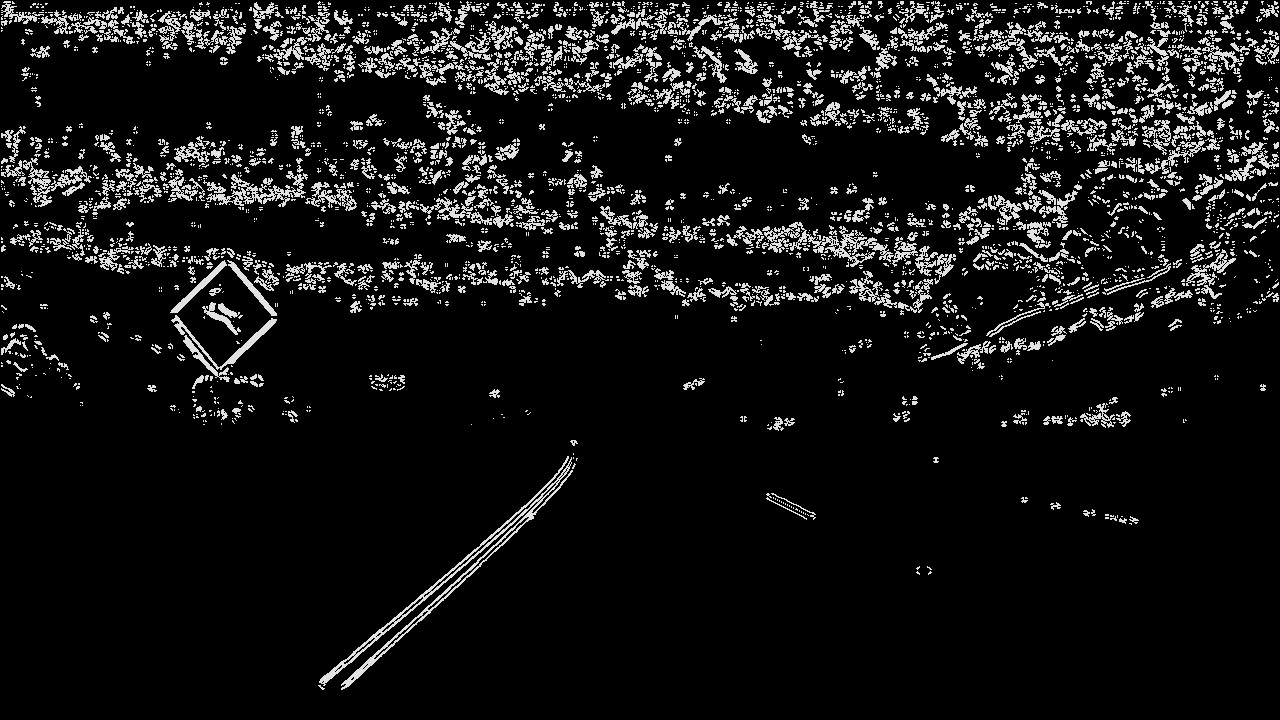
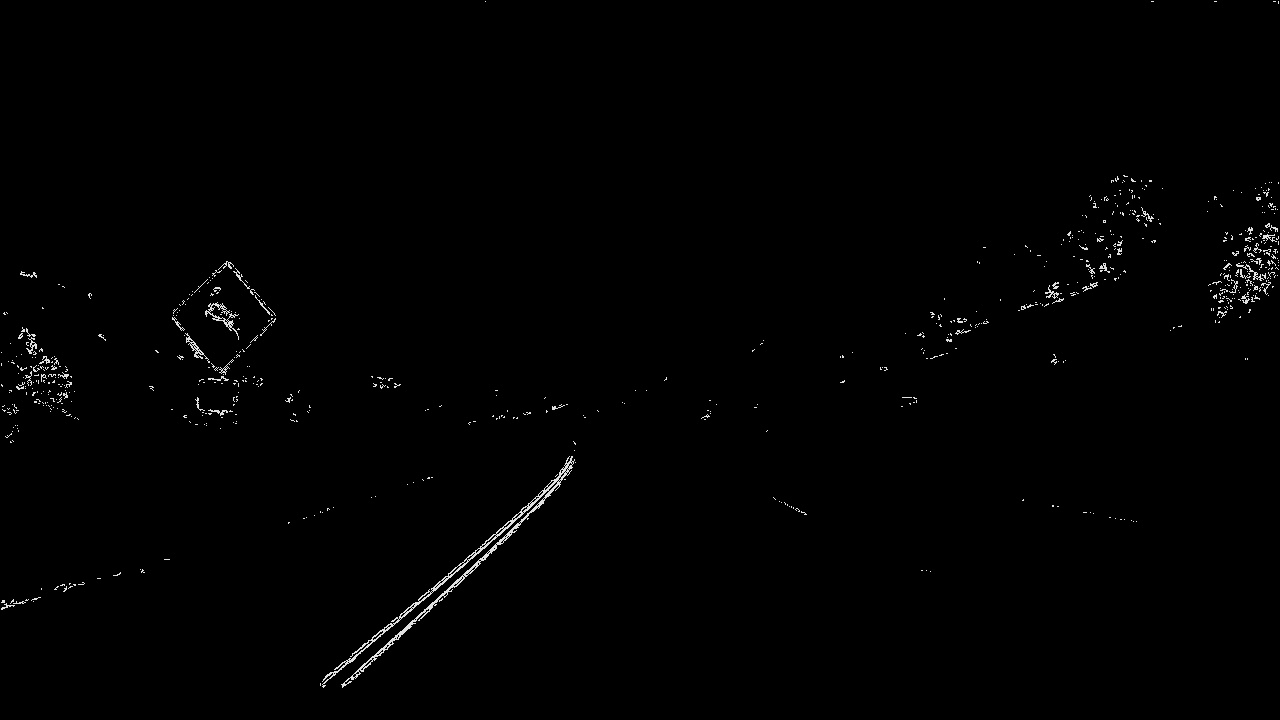
tune processImg()

diff --git a/util_vision.py b/util_vision.py
@@ -1,6 +1,16 @@
 import numpy as np
 import cv2
 
+
+def extractSatuCh(img):
+
+    img_hls = cv2.cvtColor(img, cv2.COLOR_RGB2HLS)
+    # 2) Apply a threshold to the S channel
+    ch_satu = img_hls[:,:,2]
+
+    return ch_satu
+
+
 # a function that applies Sobel x or y, 
 # then takes an absolute value and applies a threshold.
 # Note: calling your function with orient='x', thresh_min=5, thresh_max=100
@@ -36,11 +46,11 @@ def abs_sobel_thresh(img, orient='x', thresh_min=0, thresh_max=255):
 # a function that applies Sobel x and y, 
 # then computes the magnitude of the gradient
 # and applies a threshold
-def mag_thresh(img, sobel_kernel=3, mag_thresh=(0, 255)):
+def mag_thresh(image, sobel_kernel=3, thresh=(0, 255)):
     
     # 1) Convert to grayscale
-    img = cv2.cvtColor(img, cv2.COLOR_RGB2GRAY)
-
+    # img = cv2.cvtColor(img, cv2.COLOR_RGB2GRAY)
+    img = extractSatuCh(image)
     # 2) Take the derivative in x or y given orient = 'x' or 'y'
     
     sobel_x = cv2.Sobel(img, cv2.CV_64F, 1, 0, ksize=sobel_kernel)
@@ -58,8 +68,8 @@ def mag_thresh(img, sobel_kernel=3, mag_thresh=(0, 255)):
             # is > thresh_min and < thresh_max
     sobel_mask = np.zeros_like(sobel_norm)
     
-    thresh_min = mag_thresh[0]
-    thresh_max = mag_thresh[1]
+    thresh_min = thresh[0]
+    thresh_max = thresh[1]
     sobel_mask[(sobel_norm>=thresh_min) & (sobel_norm<=thresh_max)] = 1
     
     # 6) Return this mask as your binary_output image
@@ -67,19 +77,21 @@ def mag_thresh(img, sobel_kernel=3, mag_thresh=(0, 255)):
     
     return binary_output
 
+
 # a function that applies Sobel x and y, 
 # then computes the direction of the gradient
 # and applies a threshold.
-def dir_threshold(img, sobel_kernel=3, thresh=(0, np.pi/2)):
+def dir_threshold(image, sobel_kernel=3, thresh=(0, np.pi/2)):
     
-    # Apply the following steps to img
+    # Apply the following steps to image
     # 1) Convert to grayscale
-    gray = cv2.cvtColor(img, cv2.COLOR_RGB2GRAY)
+    img = cv2.cvtColor(image, cv2.COLOR_RGB2GRAY)
+    # img = extractSatuCh(image)
 
     # 2) Take the gradient in x and y separately
-    sobel_x = cv2.Sobel(gray, cv2.CV_64F, 1, 0, ksize=sobel_kernel)
+    sobel_x = cv2.Sobel(img, cv2.CV_64F, 1, 0, ksize=sobel_kernel)
 
-    sobel_y = cv2.Sobel(gray, cv2.CV_64F, 0, 1, ksize=sobel_kernel)    
+    sobel_y = cv2.Sobel(img, cv2.CV_64F, 0, 1, ksize=sobel_kernel)    
     # 3) Take the absolute value of the x and y gradients
     sobel_x_abs = np.absolute(sobel_x)
     sobel_y_abs = np.absolute(sobel_y)
@@ -115,30 +127,54 @@ def hls_select(img, thresh=(0, 255)):
 
     return binary_output
 
+# a function that thresholds the S-channel of HLS
+# Use exclusive lower bound (>) and inclusive upper (<=)
+def hls_select_s(img, thresh=(0, 255)):
+    # 1) Convert to HLS color space
+    img_hls = cv2.cvtColor(img, cv2.COLOR_RGB2HLS)
+    # 2) Apply a threshold to the S channel
+    ch_hue = img_hls[:,:,0]
+    # ch_satu = img_hls[:,:,2]
+    img_1ch = ch_hue
+    binary_ch = np.zeros_like(img_1ch)
+    thre_min = thresh[0]
+    thre_max = thresh[1]
+    binary_ch[ (img_1ch>thre_min) & (img_1ch<=thre_max)] =1
+    # 3) Return a binary image of threshold result
+    binary_output = binary_ch
+    
+
+    return binary_output
 
 class qVision:
     def __init__(self):
         pass
 
-    def processImg(self, img_rgb):
+    def processImg(self, img_rgb, debug=False):
 
-        image = np.copy(img_rgb)
-        # image =  img_rgb
+        # image = np.copy(img_rgb)
+        image_orig = np.copy(img_rgb)
 
-        hls_binary = hls_select(img_rgb, thresh=(100, 255))
-        image[(hls_binary != 1)]  = 0
+
+        hls_binary = hls_select(image_orig, thresh=(66, 255))
+        # image[(hls_binary != 1)]  = 0
         # Run the function
-        mag_binary = mag_thresh(image, sobel_kernel=9, mag_thresh=(33, 150))
-        dir_binary = dir_threshold(image, sobel_kernel=9, thresh=(np.pi*20.0/180.0, np.pi*80.0/180.0)) 
+        mag_binary = mag_thresh(image_orig, sobel_kernel=3, thresh=(50, 120 ))
+
+        dir_binary = dir_threshold(image_orig, sobel_kernel=15, thresh=(np.pi*20.0/180.0, np.pi*80.0/180.0)) 
+        # dir_binary = dir_threshold(image_orig2, sobel_kernel=15, thresh=(0.7, 1.2) ) # 40~80 degree
         # dir_binary = dir_threshold(mag_binary, sobel_kernel=11, thresh=(0.7, 1.3), enable_binary_map=True) 
 
 
         combined = np.zeros_like(dir_binary)
         # combined[(hls_binary == 1) ] = 1
-        combined[  (dir_binary == 1) & (mag_binary == 1)   ] = 1
-        # combined[ (mag_binary == 1)   ] = 1
+        # combined[  (dir_binary == 1) & (mag_binary == 1)   ] = 1
+        combined[ (dir_binary == 1) & (mag_binary == 1) & (hls_binary == 1) ] = 1
         # Plot the result
 
+        if debug == True:
+            DBG_CompareThreeGrayImages(hls_binary , mag_binary,  dir_binary ,'HLS satu', 'mag', 'directional' )
+        
 
         img_final = combined
         return img_final
@@ -162,6 +198,27 @@ def DBG_CompareImages(img1, img2, title1, title2, cmap2=None, save_to_file=''):
     plt.show()
 
 
+def DBG_CompareThreeGrayImages(img1, img2, img3, title1, title2, title3 ):
+    import matplotlib.pyplot as plt
+    import matplotlib.image as mpimg
+
+    f, (ax1, ax2, ax3) = plt.subplots(1, 3, figsize=(21, 6))
+    f.tight_layout()
+
+    ax1.imshow(img1, cmap='gray', vmin = 0, vmax = 1)
+    ax1.set_title(title1, fontsize=30)
+
+    ax2.imshow(img2, cmap='gray', vmin = 0, vmax = 1)
+    ax2.set_title(title2, fontsize=30)
+
+    ax3.imshow(img3, cmap='gray', vmin = 0, vmax = 1)
+    ax3.set_title(title3, fontsize=30)
+
+    plt.subplots_adjust(left=0., right=1, top=0.9, bottom=0.)
+
+    plt.show()
+
+
 def main():
 
     vision = qVision()
@@ -175,7 +232,6 @@ def main():
     for img_loc in images_loc:
         img_bgr = cv2.imread(img_loc)
 
-
         img_rgb = cv2.cvtColor(img_bgr, cv2.COLOR_BGR2RGB)
         img_procd = vision.processImg(img_rgb)
 
@@ -187,7 +243,7 @@ def main():
 
 
 
-    img_bgr = cv2.imread('udacity/test_images/test2.jpg')
+    img_bgr = cv2.imread('udacity/test_images/test5.jpg')
 
 
     img_rgb = cv2.cvtColor(img_bgr, cv2.COLOR_BGR2RGB)
